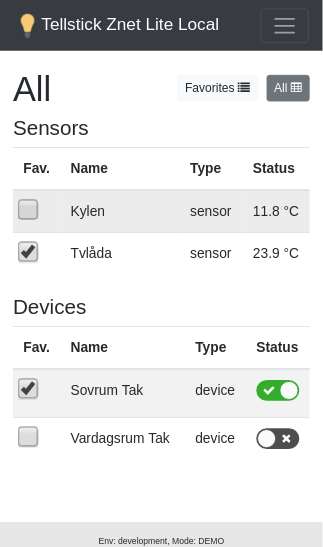
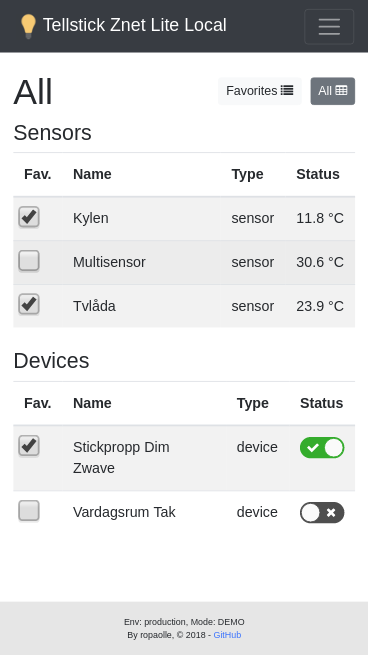
GitHub Pages demo added

diff --git a/README.md b/README.md
@@ -1,5 +1,7 @@
 Tellstick Znet Lite local is a web client that let you control your Tellstick devices locally, without an internet connection.
 
+Demo page: [https://ropaolle.github.io/tellstick-znet-lite-local/](https://ropaolle.github.io/tellstick-znet-lite-local/)
+
 Tellstick is an IOT gateway that I use to control the lights in my apartment. It can be controlled by Tellstick's mobile/web client thru the service Tellstick Live. Unfortunately it won't work if my internet connection is down. To make sure I can handle my lights independent on internal I maid a local client ([Tellstick Znet Lite Local Client](https://github.com/ropaolle/tellstick-znet-lite-local)) and a proxy/api ([Tellstick Znet Lite Local Proxy/Api](https://github.com/ropaolle/tellstick-znet-lite-local-api)) that talks to the Tellstick.
 
 ### Codebeat
